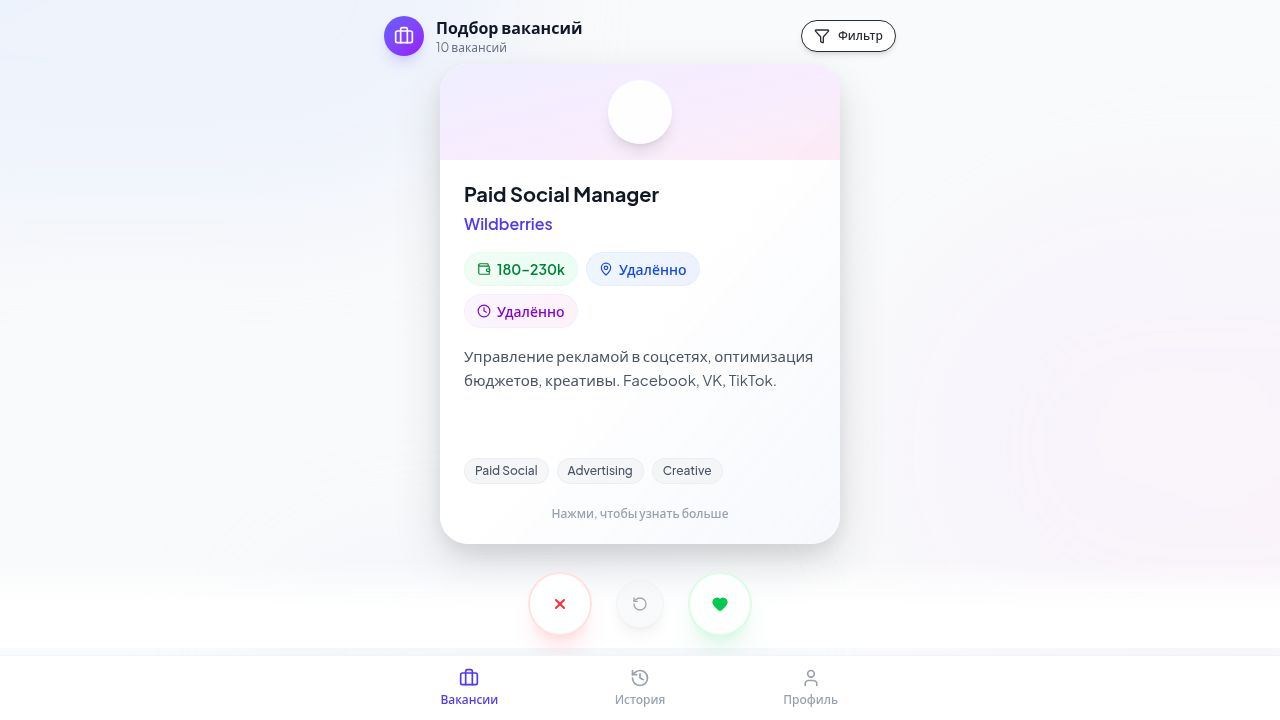
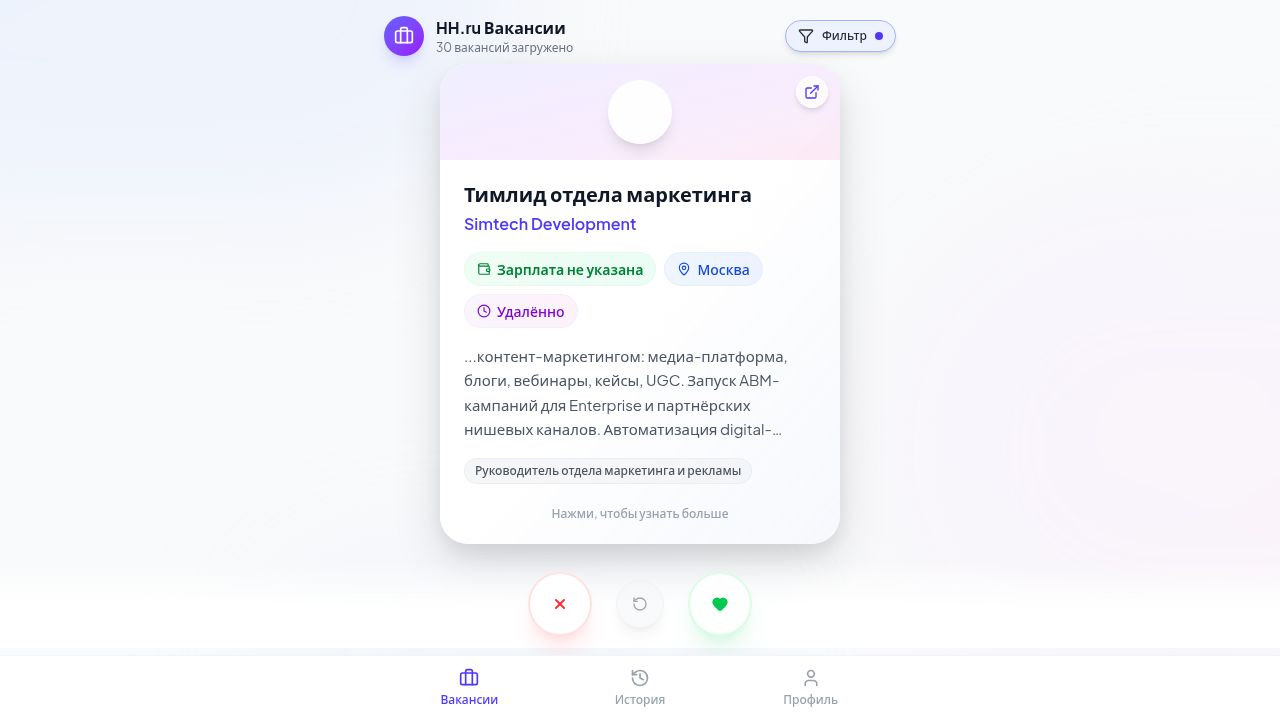
Improve job search functionality by adding a manual search trigger
Refactors the VacanciesPage component to decouple filter changes from job fetching. Introduces a manual search button, implements search debouncing, and updates pagination logic to use applied filters for subsequent requests. Also fixes an issue where clearing filters did not trigger a search.

Replit-Commit-Author: Agent
Replit-Commit-Session-Id: 91ecec05-66d9-4cd5-8e5a-185f07cd9ddb
Replit-Commit-Checkpoint-Type: intermediate_checkpoint
Replit-Commit-Event-Id: a183faa4-ba1c-4082-9dde-e5cf2bee08c4
Replit-Commit-Screenshot-Url: https://storage.googleapis.com/screenshot-production-us-central1/c1e9a864-6f08-4266-bf68-b6d2bf4c040d/91ecec05-66d9-4cd5-8e5a-185f07cd9ddb/Jm9ff1G

diff --git a/client/src/pages/VacanciesPage.tsx b/client/src/pages/VacanciesPage.tsx
@@ -152,35 +152,50 @@ export default function VacanciesPage() {
     experience: "all",
   });
   
-  const { data: hhResponse, isLoading: jobsLoading, refetch } = useQuery({
-    queryKey: ["hh-jobs", filters, 1],
-    queryFn: () => fetchHHJobs(filters, 1),
-    staleTime: 5 * 60 * 1000,
-  });
+  const [appliedFilters, setAppliedFilters] = useState<HHFilters | null>(null);
+  const [isSearching, setIsSearching] = useState(false);
+  const [initialLoadDone, setInitialLoadDone] = useState(false);
 
   const { data: resume } = useQuery({
     queryKey: ["resume"],
     queryFn: fetchResume,
   });
 
-  useEffect(() => {
-    if (hhResponse) {
-      setJobs(hhResponse.jobs);
-      setHasMore(hhResponse.hasMore);
+  const executeSearch = useCallback(async (searchFilters: HHFilters) => {
+    setIsSearching(true);
+    try {
+      const response = await fetchHHJobs(searchFilters, 1);
+      setJobs(response.jobs);
+      setHasMore(response.hasMore);
       setBatch(1);
       setCurrentIndex(0);
       setHistory([]);
       setSwipedIds(new Set());
+      setAppliedFilters(searchFilters);
+    } catch (error) {
+      console.error("Search failed:", error);
+    } finally {
+      setIsSearching(false);
     }
-  }, [hhResponse]);
+  }, []);
 
   useEffect(() => {
-    setCurrentIndex(0);
-    setHistory([]);
-    setSwipedIds(new Set());
-    setBatch(1);
-    refetch();
-  }, [filters]);
+    if (!initialLoadDone) {
+      const initialFilters: HHFilters = {
+        text: "маркетинг",
+        area: "1",
+        employment: "all",
+        schedule: "all",
+        experience: "all",
+      };
+      executeSearch(initialFilters);
+      setInitialLoadDone(true);
+    }
+  }, [initialLoadDone, executeSearch]);
+
+  const handleSearch = useCallback(() => {
+    executeSearch(filters);
+  }, [executeSearch, filters]);
 
   const applicationMutation = useMutation({
     mutationFn: createApplication,
@@ -268,12 +283,12 @@ export default function VacanciesPage() {
   }, [isSwiping, currentJobs, currentIndex, resume, applicationMutation, toast, queryClient]);
 
   const loadMoreJobs = useCallback(async () => {
-    if (!hasMore || isLoadingMore) return;
+    if (!hasMore || isLoadingMore || !appliedFilters) return;
     
     setIsLoadingMore(true);
     try {
       const nextBatch = batch + 1;
-      const response = await fetchHHJobs(filters, nextBatch);
+      const response = await fetchHHJobs(appliedFilters, nextBatch);
       
       setJobs(prev => [...prev, ...response.jobs]);
       setBatch(nextBatch);
@@ -288,7 +303,7 @@ export default function VacanciesPage() {
     } finally {
       setIsLoadingMore(false);
     }
-  }, [batch, filters, hasMore, isLoadingMore, toast]);
+  }, [batch, appliedFilters, hasMore, isLoadingMore, toast]);
 
   const triggerSwipe = useCallback(async (direction: "left" | "right") => {
     if (isSwiping || currentJobs.length === 0 || expandedVacancy) return;
@@ -317,26 +332,26 @@ export default function VacanciesPage() {
   }, [history, expandedVacancy, isSwiping, jobs]);
 
   const handleReset = useCallback(() => {
-    setCurrentIndex(0);
-    setHistory([]);
-    setSwipedIds(new Set());
-    setBatch(1);
-    refetch();
-  }, [refetch]);
+    if (appliedFilters) {
+      executeSearch(appliedFilters);
+    }
+  }, [appliedFilters, executeSearch]);
 
   const updateFilter = useCallback((key: keyof HHFilters, value: string) => {
     setFilters(prev => ({ ...prev, [key]: value }));
   }, []);
 
   const clearFilters = useCallback(() => {
-    setFilters({
+    const clearedFilters: HHFilters = {
       text: "",
       area: "1",
       employment: "all",
       schedule: "all",
       experience: "all",
-    });
-  }, []);
+    };
+    setFilters(clearedFilters);
+    executeSearch(clearedFilters);
+  }, [executeSearch]);
 
   const handleApplyFromFullView = useCallback(async () => {
     if (!expandedVacancy || isSwiping) return;
@@ -355,7 +370,7 @@ export default function VacanciesPage() {
   const showLoadMore = currentJobs.length === 0 && hasMore && jobs.length > 0;
   const showNoMoreJobs = currentJobs.length === 0 && !hasMore && jobs.length > 0;
 
-  if (jobsLoading) {
+  if (isSearching && jobs.length === 0) {
     return (
       <div className="flex items-center justify-center h-full">
         <div className="text-center">
@@ -485,17 +500,36 @@ export default function VacanciesPage() {
               </div>
             </div>
             
-            {hasActiveFilters && (
+            <div className="flex gap-2 pt-2">
               <Button
-                variant="ghost"
-                size="sm"
-                onClick={clearFilters}
-                className="w-full text-gray-500 hover:text-gray-700 hover:bg-gray-100/50"
-                data-testid="button-clear-filters"
+                onClick={handleSearch}
+                disabled={isSearching}
+                className="flex-1 rounded-xl h-11 bg-gradient-to-r from-indigo-500 to-purple-600 hover:from-indigo-600 hover:to-purple-700 shadow-lg shadow-indigo-500/25"
+                data-testid="button-search"
               >
-                Сбросить фильтры
+                {isSearching ? (
+                  <>
+                    <Loader2 className="w-4 h-4 mr-2 animate-spin" />
+                    Поиск...
+                  </>
+                ) : (
+                  <>
+                    <Search className="w-4 h-4 mr-2" />
+                    Поиск
+                  </>
+                )}
               </Button>
-            )}
+              {hasActiveFilters && (
+                <Button
+                  variant="outline"
+                  onClick={clearFilters}
+                  className="rounded-xl h-11 px-4 text-gray-500 hover:text-gray-700"
+                  data-testid="button-clear-filters"
+                >
+                  Сбросить
+                </Button>
+              )}
+            </div>
           </div>
         </div>
       )}
